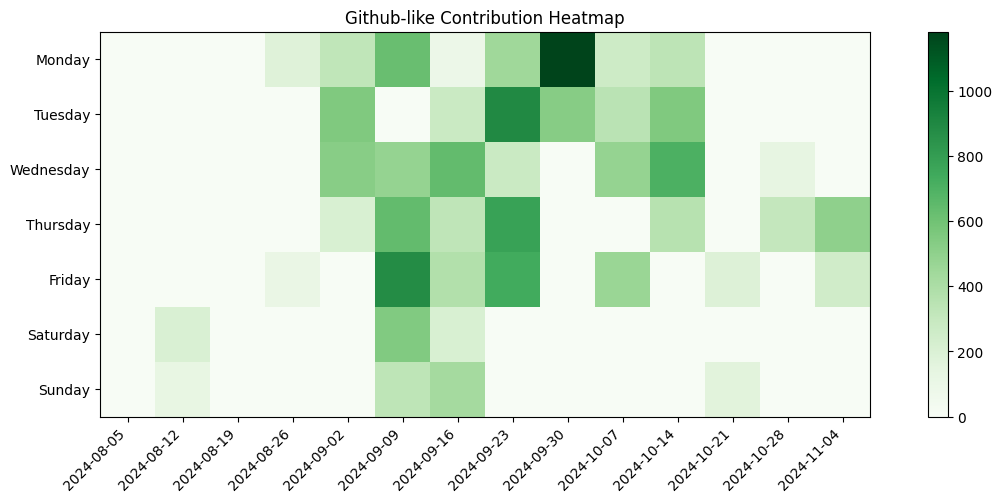
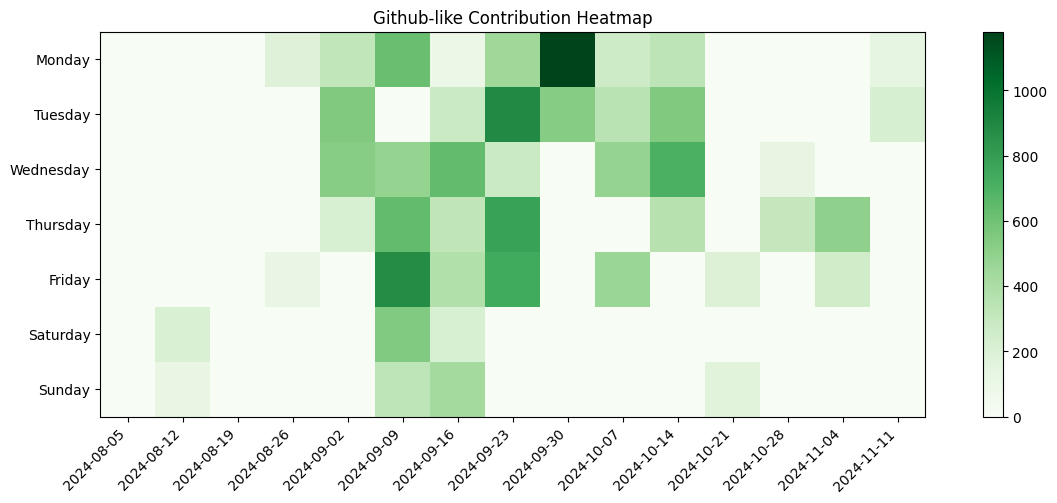
Update

diff --git a/README.md b/README.md
@@ -42,4 +42,6 @@
 20241031 307.26 (6.43-0.74)*54
 20241107 192.23 (6.97-0.77)*31   163.73 (6.55-1.27)*31   145.08 (6.72-0.92)*25
 20241108 250.07 (6.88-0.93)*42
+20241111 136.04 (6.62-0.96)*24
+20241112 220.84 (6.97-1.16)*38
 ```
